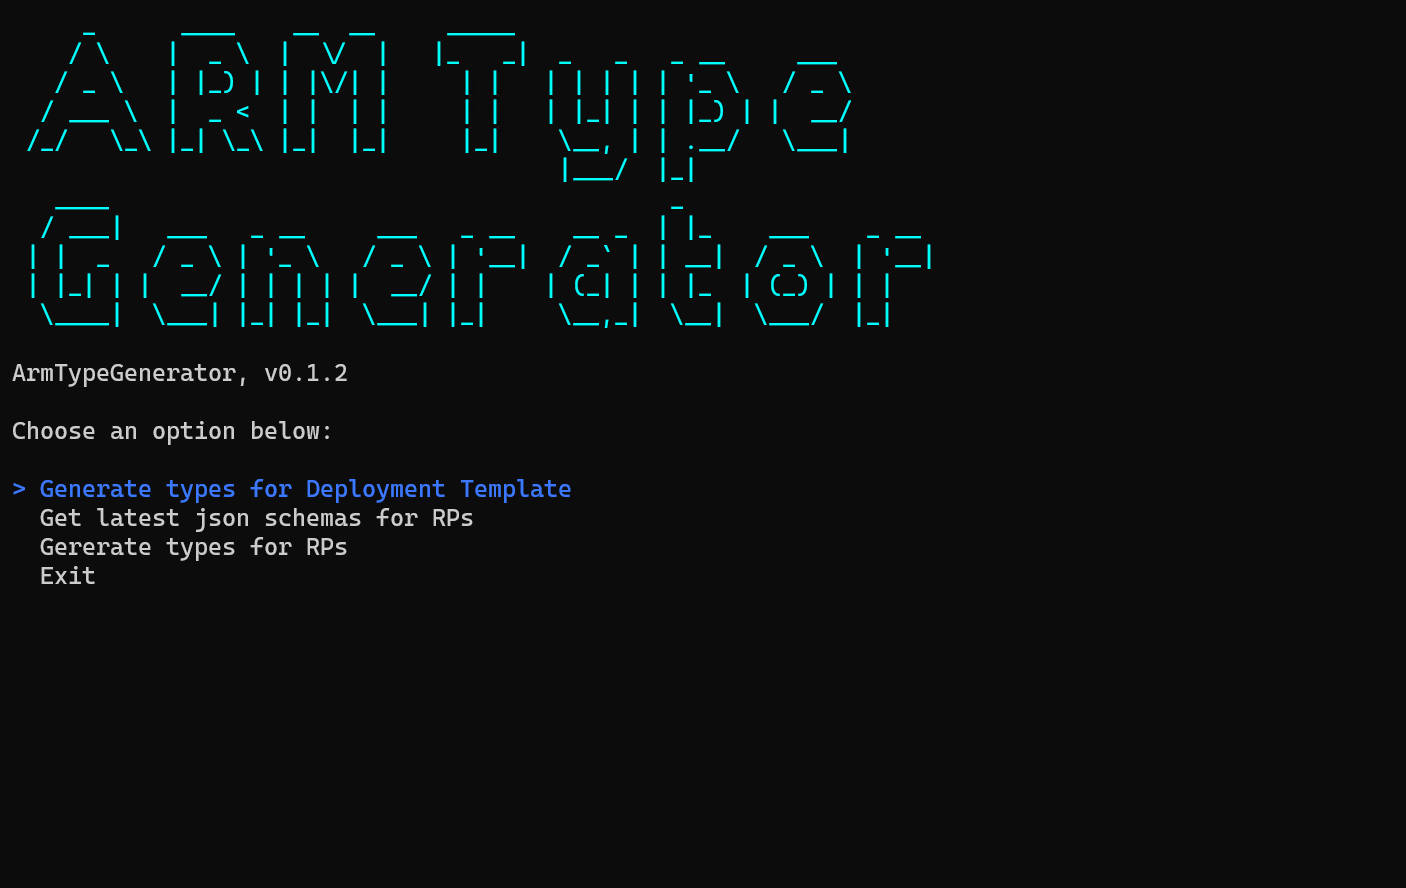
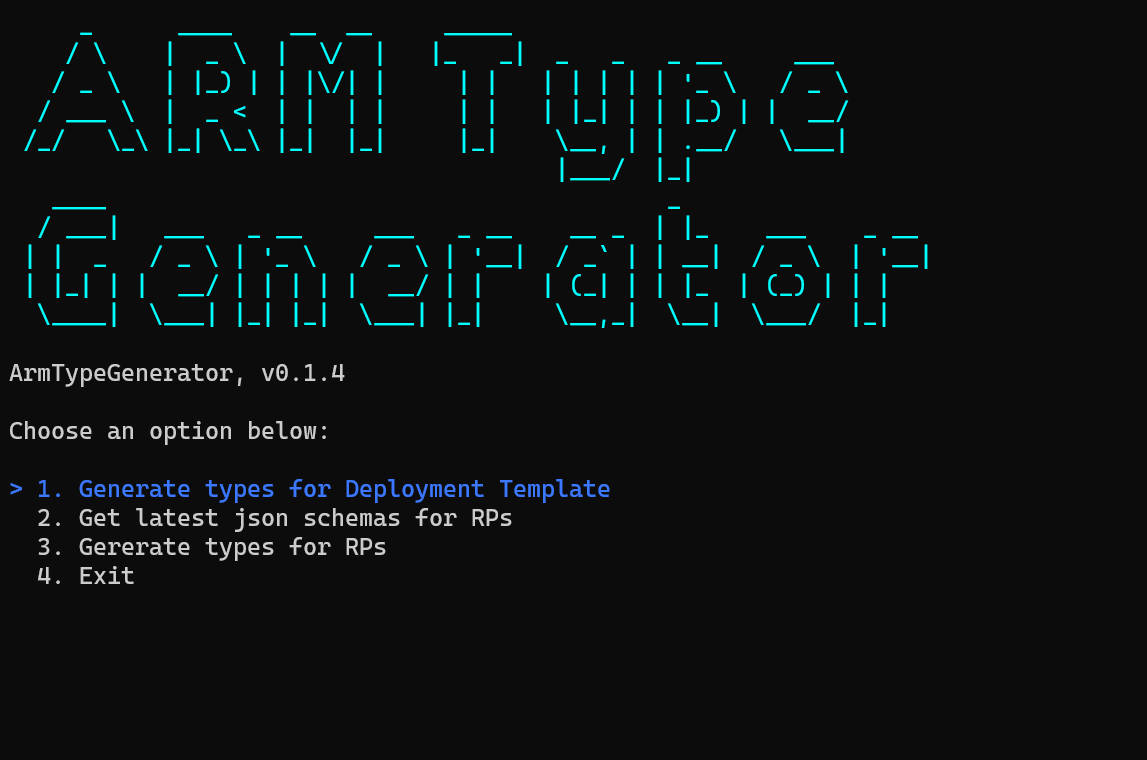
Update UI and readme

diff --git a/src/ArmTypeGenerator/Helper.cs b/src/ArmTypeGenerator/Helper.cs
@@ -41,10 +41,10 @@ namespace ArmTypeGenerator
                     })
                     .UseConverter(opt => opt switch
                     {
-                        0 => "Generate types for Deployment Template",
-                        1 => "Get latest json schemas for RPs",
-                        2 => "Gererate types for RPs",
-                        3 => "Exit",
+                        0 => "1. Generate types for Deployment Template",
+                        1 => "2. Get latest json schemas for RPs",
+                        2 => "3. Gererate types for RPs",
+                        3 => "4. Exit",
                         _ => ""
                     }));
 

diff --git a/README.md b/README.md
@@ -1,5 +1,24 @@
 # ArmTypeGenerator
 
+[![CI/CD](https://github.com/chunliu/ArmTypeGenerator/actions/workflows/release.yml/badge.svg)](https://github.com/chunliu/ArmTypeGenerator/actions/workflows/release.yml)
+
 A CLI to generator C# types for Azure ARM resources from the corresponding json schemas of Azure ARM.
 
 ![ArmTypeGenerator screenshot](ArmTypeGenerator.jpg)
+
+## How to use
+
+1. Download the latest version from [releases](https://github.com/chunliu/ArmTypeGenerator/releases).
+1. Unzip it to a folder. Optionally, add the folder path to the `PATH` of your environment.
+1. Update the `outputDir` setting in the `Configs/AppConfiguration.json` to the absolute path of the folder where you want the generated type files to be in.
+1. Run `ArmTypeGenerator.exe` from command line.
+1. Follow the instructions.
+
+## Support resource providers
+
+The following resource providers are supported:
+
+- Microsoft.Network
+- Microsoft.Sql
+
+More resource providers will be supported over time.
